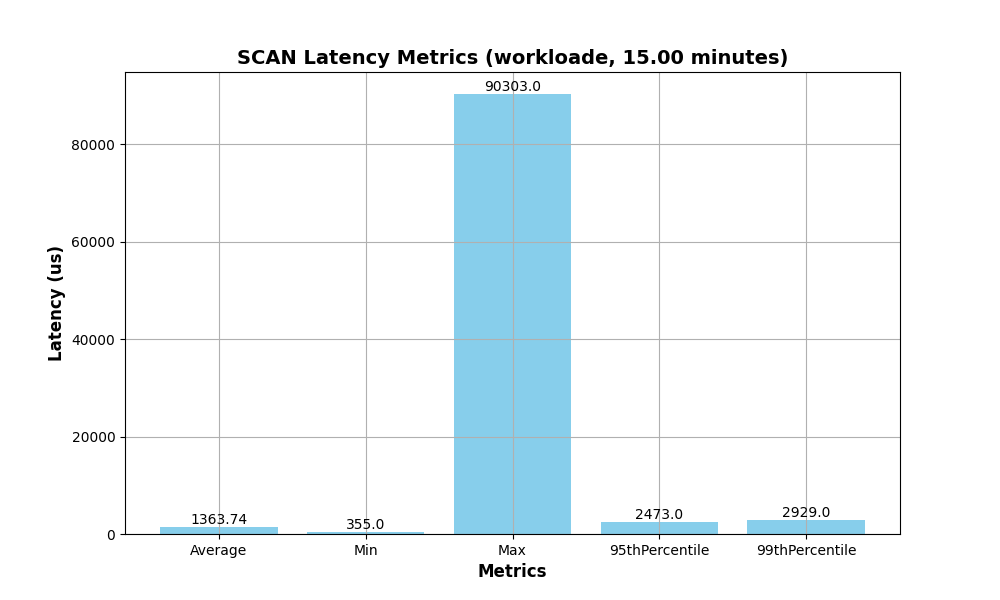
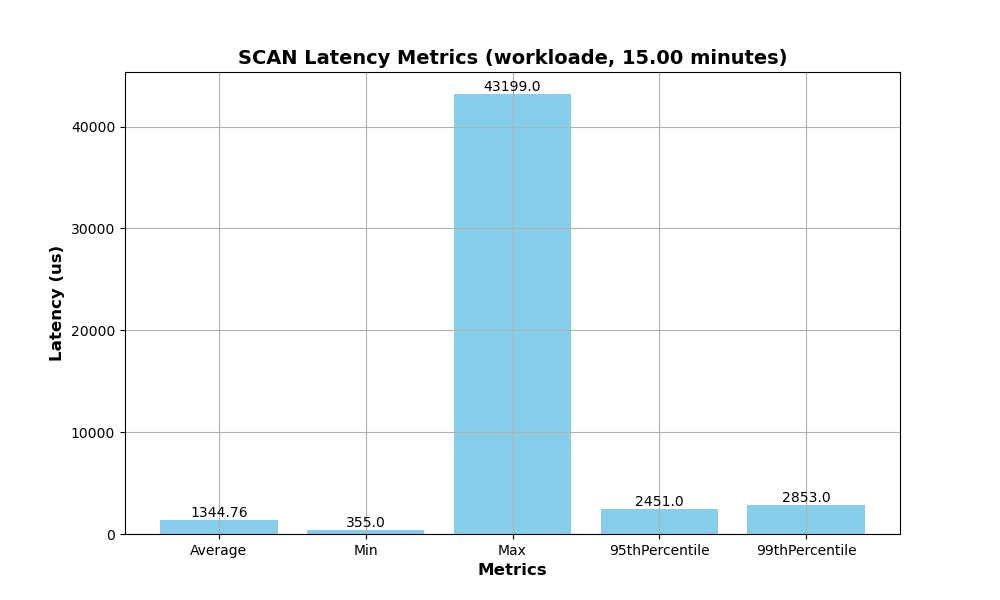
update README

diff --git a/README.md b/README.md
@@ -1,18 +1,6 @@
 # Cassandra SCAN Performance Profiling
 
-In this project, we use YCSB to run latency and throughput benchmarks of Cassandra. We compare the benchmarks of several configurations:
-- Default
-- Use LCS (leveled compaction strategy)
-- Use row cache (10 GB)
-- Use both LCS and row cache
-
-Here is the setup that we use:
-- 1 node cluster in Docker container
-- Apache Cassandra 3.11.17 release
-- 16 GB RAM
-- scan:insert proportion= 95:5
-
-We run the benchmark on `workloade`, but set the number of operations to the max and run for 15 minutes.
+In this experiment, we use YCSB to run latency and throughput benchmarks of Cassandra. 
 
 ## Navigation
 [Installation and Setup](#installation-and-setup)
@@ -30,7 +18,7 @@ tar xfvz ycsb-0.17.0.tar.gz
 cd ycsb-0.17.0
 ```
 
-## Running the Benchmarks
+## How to run the workflow
 We will run our workflow using the `run_workflow.sh` script. This script does the following: 
 1. Starts a cassandra instance on a docker container and performs setup
 2. Runs the specified benchmark
@@ -49,46 +37,77 @@ where:
 - `operation` is the operation we are benchmarking (e.g. SCAN)
 - `workload` is the workload we are using from YCSB
 
+The raw data from the benchmarks is written to the directory `/output/ycsb`. The visualizations plotted from the data are located in the directory `/plots`.
 
-### Default
-Run the benchmark workflow with default configurations using: 
+## SCAN profiling
+We compare the benchmarks of several configurations for the SCAN operation:
+- Default
+- Use LCS (leveled compaction strategy)
+- Use row cache
+- Use both LCS and row cache
+
+For the row cache, we set the limit to 10 GB, and cache all keys and rows per partition.
+
+Here is the setup that we use:
+- 1 node cluster in Docker container
+- Apache Cassandra 3.11.17 release
+- 16 GB RAM
+
+We run the benchmark on `workloade` which has a 95:5 SCAN to INSERT ratio, but set the number of operations to the max and run for 15 minutes.
+
+### Running the benchmarks
+
+We run the benchmark workflow for each of the 4 configurations, profiling the SCAN operation for workload e using: 
 ```
 chmod +x run_workflow.sh
 ./run_workflow.sh default 900 SCAN workloade
+./run_workflow.sh lcs 900 SCAN workloade
+./run_workflow.sh rowcache 900 SCAN workloade
+./run_workflow.sh lcs-rowcache 900 SCAN workloade
 ```
 
-### LCS
-Run the benchmark workflow with LCS enabled using:
-```
-chmod +x run_workflow.sh
-./run_workflow.sh lcs 900 SCAN workloade 
-```
+### Results
+Below are the results comparing the latencies (mean, P95, P99) for each configuration.
 
-### Row cache
-Run the benchmark workflow with row cache enabled using:
-```
-chmod +x run_workflow.sh
-./run_workflow.sh rowcache 900 SCAN workloade 
-```
+![Grouped Latency Plot](./plots/read-only-do-not-modify/scan-e/latency/grouped-latency-plot.png)
+![Grouped Throughput Plot](./plots/read-only-do-not-modify/scan-e/throughput/grouped-throughput-plot.png)
 
-### LCS + row cache
-Run the benchmark workflow with both LCS and row cache enabled using:
-```
-chmod +x run_workflow.sh
-./run_workflow.sh lcs-rowcache 900 SCAN workloade 
-```
+#### Average Latency and Throughput
+We can see that the default configuration has the highest average latency and 2nd to worst throughput, which implies that it's the worst, not by any significant margin, without any specific optimizations for the usage pattern. The row cache configuration had the lowest average latency. However this result should be taken with a grain of salt since while running the workflow, I ran `node exec -it cassandra nodetool info` several times, and noticed that the rowcache has 0% utilization and 0% hit rate. Thus it appears that this is not the reason the performance improved and it may have been random.
 
-## Results Analysis
-The raw data from the benchmarks is located in the directory `/output/ycsb`. The visualizations plotted from the data are located in the directory `/plots`.
+Performance wise, all were very close.
 
-### 1 Node
+#### P95 and P99 Latency and Throughput
+Again, enabling row cache performs around the best for SCAN heavy patterns, but by a very small margin. LCS also appears to have a slight performance improvement compared to the base default configuration. The default configuration and the configuration with both enabled doesn't improve performance.
 
-Below are the comparisons of the latency metrics across the 4 configurations we tested (default, LCS, row cache, LCS + row cache)
+#### Discussion
+The row cache in cassandra is ideal for point queries that randomly access by key, or read operations that often read the same rows. Thus, row caching is not optimized for sequential scan operations.
 
-#### Default
+LCS performed slightly better that the default. But when combined with row cache, gave the worst performance which could be due to extra overhead. LCS is optimized to improve read performance by reducing the number of SSTables accessed from disk during reads. However, for scan-heavy workloads, this may not improve perfomance since scans involve reading a large volume of data sequentially.
 
-#### LCS
+## READ profiling
+We compare the benchmarks of several configurations for the READ operation:
+- Default
+- Use LCS (leveled compaction strategy)
+- Use row cache
+- Use both LCS and row cache
 
-#### Row Cache
+For the row cache, we set the limit to 10 GB, and cache all keys and rows per partition.
 
-#### LCS + Row Cache
+Here is the setup that we use:
+- 1 node cluster in Docker container
+- Apache Cassandra 3.11.17 release
+- 16 GB RAM
+
+We run the benchmark on `workloadd` which has a 95:5 READ to INSERT ratio, but set the number of operations to the max and run for 15 minutes.
+
+### Results
+Below are the results comparing the latencies (mean, P95, P99) for each configuration.
+
+#### Average Latency and Throughput
+
+Performance wise, all were very close.
+
+#### P95 and P99 Latency and Throughput
+
+#### Discussion
